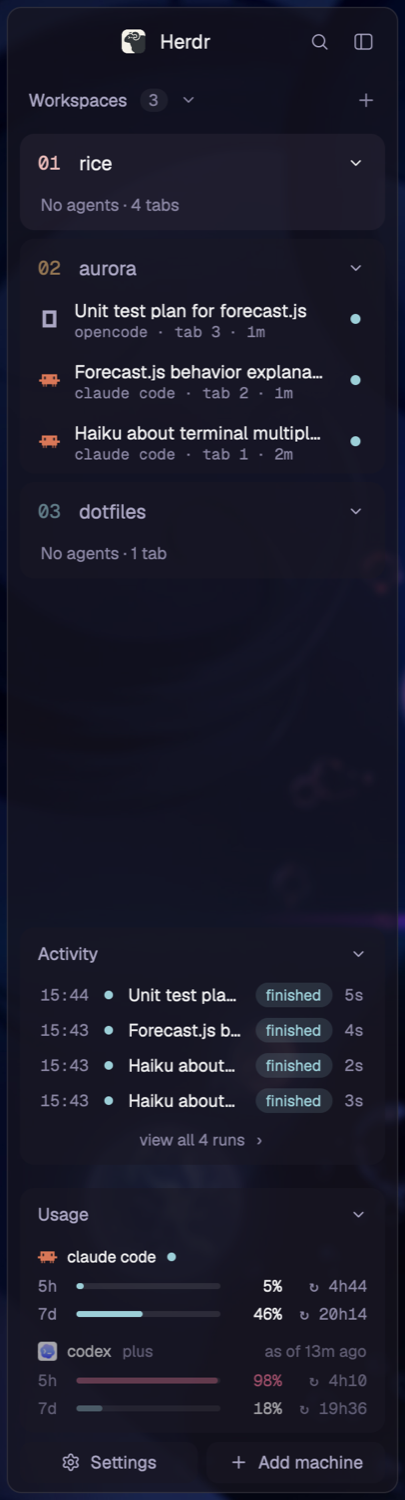
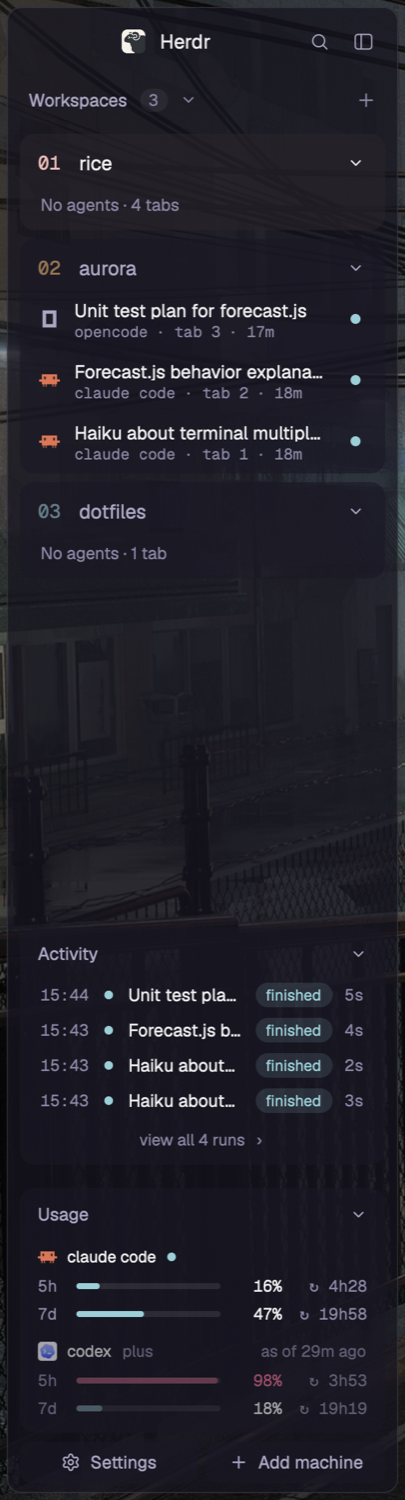
Retake screenshots with a new wallpaper and gold accent

diff --git a/docs/SCREENSHOTS.md b/docs/SCREENSHOTS.md
@@ -8,7 +8,7 @@ The full-window shots use a demo scene: workspaces `rice`, `aurora` and
 `dotfiles`, sample tabs, `fastfetch`/`cbonsai`/`btop` output, and three harmless
 sample agent prompts about a tiny demo file (`forecast.js`). The prompts,
 replies and agent titles in the images are real output from those sample runs;
-nothing was edited afterwards. The wallpaper is Hatsune Miku fan art chosen by
+nothing was edited afterwards. The wallpaper is third-party anime art chosen by
 the author; it is **not** distributed here (see [ASSETS.md](ASSETS.md)).
 
 | File | What is visible |

diff --git a/docs/ASSETS.md b/docs/ASSETS.md
@@ -9,7 +9,7 @@ into your local Herdr config and creates local thumbnails. Those files belong
 to your installation, not this showcase repo. Herdr's built-in notification
 sounds are used unless you choose your own.
 
-The wallpaper in the screenshots is Hatsune Miku fan art picked by the author;
+The wallpaper in the screenshots is third-party anime art picked by the author;
 it is not included and not licensed by this repo.
 
 Screenshots are crops of actual Herdr frames. Their colors and opacity values

diff --git a/README.md b/README.md
@@ -6,7 +6,7 @@ status bar that keeps the useful details close.
 
 ![NA29 Islands: numbered workspaces, agents, activity and usage in the sidebar; fastfetch, cbonsai and btop in see-through panes](docs/hero.png)
 
-*Wallpaper in the screenshots: Hatsune Miku fan art, not included in this repo.
+*Wallpaper in the screenshots: third-party anime art, not included in this repo.
 Bring your own (see [wallpapers](docs/ASSETS.md)); the default is a gradient.*
 
 ## A tour
